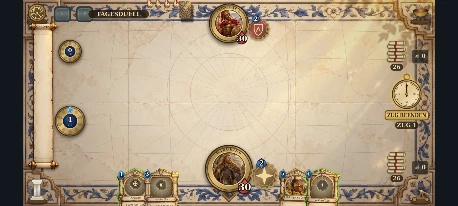
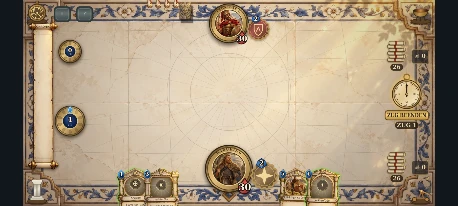
Aeterna 1.39.0 – Rückmeldung zu 1.38.0: Auftritt der Legendären neu, Modus ins Pausenfenster
- Auftritt der Legendären neu inszeniert (900 ms Match-Uhr): das Brett
  dunkelt ab, die Karte fliegt groß in die Mitte (die der KI dreht sich um),
  goldene Strahlen drehen sich hinter ihr, ein Samtband mit Name und Epoche
  entrollt sich darunter, ein Siegel prägt sich mit Klang, Stoß und Funken
  darauf; dann fällt die Karte von dort auf ihren Platz und schlägt mit
  goldenem Funkenkranz ein. Tippen überspringt, ruhige Bewegung zeigt Karte
  und Band still. Astra U13 um legendaer-strahlen ergänzt.
- Der Modus stand seit 1.38.0 groß und dauerhaft oben auf dem Brett – jetzt
  stehen Art der Partie und Stärke der KI im Pausenfenster (modeText).
- Tests (hud, kampagne, lehrstunden, raetsel), Referenzbilder der
  Match-Ansichten, Was ist neu, README.

Claude-Session: https://claude.ai/code/session_01SQ2igVxph85BdsjqxzB4JT

Changed region(s): [[0.1834, 0.0291, 0.3362, 0.1165], [0.3668, 0.0, 0.4279, 0.1165]]

diff --git a/quellcode/assets/game/view/match/fx.js b/quellcode/assets/game/view/match/fx.js
@@ -259,33 +259,55 @@ function finale(c,s,t,st){const e=st.held?FINALE.end:t-st.at,kind=st.info.winner
   const q=ease.outCubic(clamp((e-FINALE.banner)/FINALE.unroll)),drop=ease.outBack(clamp((e-FINALE.banner)/350));
   c.save();c.translate(800,mix(-60,250,drop));c.beginPath();c.rect(-240,-40,480,40+290*q);c.clip();R.blit(c,banner(kind));c.restore();}
  if(!st.held&&e>=FINALE.end){st.held=true;st.done?.();}}
-// AP 3.10 (seit 1.38.0): Auftritt einer Legendären. Vor dem Ausspielen fährt ein Band mit Name und Epoche quer über das Brett
-// (raw 0–0,3), ein goldenes Siegel prägt sich darauf (0,38–0,55, mit Klang und leichtem Wackeln), dann blendet alles aus (ab 0,82)
-// und die Karte fällt wie bisher mit schwerem Aufprall (AP 3.3). Unter ruhiger Bewegung steht nur das Band, ohne Fahrt und Siegel.
-// raw läuft über die Phase „herald“ der Zeitleiste (motion.js) – bei „Schnell“ doppelt so schnell, ein Tippen überspringt sie.
-// ASTRA: legendaer-band – Band aus dunklem Samt mit Goldborte und Lorbeerenden quer über das Brett, Mitte frei für Name und Epoche, 1280 × 160
+// AP 3.10 (seit 1.38.0, neu inszeniert in 1.39.0 nach Deiner Rückmeldung „noch nicht gut“): Auftritt einer Legendären. raw läuft
+// über die Phase „herald“ (motion.js, 900 ms Match-Uhr, bei „Schnell“ die Hälfte, ein Tippen überspringt sie):
+//   0–0,32   das Brett wird dunkel, die Karte fliegt aus der Hand (die der KI von ihren Befehlen, dabei dreht sie sich um) groß in
+//            die Mitte (CHM.SHOW), hinter ihr gehen goldene Strahlen auf und drehen sich langsam;
+//   0,22–0,5 unter der Karte entrollt sich von der Mitte aus ein Band aus Samt mit Name und „Legendär · Held · Epoche“;
+//   0,5–0,62 ein goldenes Siegel prägt sich auf das Band – Siegelklang, ein Funkenkranz, ein leichter Stoß;
+//   0,62–1   die Karte schwebt, Strahlen und Band blenden aus; dann fällt sie von dort mit schwerem Aufprall auf ihren Platz (AP 3.3).
+// Unter ruhiger Bewegung steht die Karte gleich in der Mitte, das Band liegt still, ohne Strahlen, Siegel und Funken.
+// ASTRA: legendaer-band – Band aus dunkelrotem Samt mit Goldborte und gegabelten Enden unter der Karte, Mitte frei für Name und Epoche, 680 × 110
 // ASTRA: legendaer-siegel – goldenes Wachssiegel mit Lorbeerkranz und Stern, das sich auf das Band prägt, 150 × 150
-const heraldBand=card=>R.sprite('herald:'+card.id,-660,-84,1320,168,g=>{const owner=D.owner(card),line=['Legendär',owner?.name,D.eraOf(card)].filter(Boolean).join(' · ');
- g.shadowColor='#000a';g.shadowBlur=18;g.shadowOffsetY=6;g.beginPath();g.moveTo(-640,-50);g.lineTo(600,-50);g.lineTo(640,0);g.lineTo(600,50);g.lineTo(-640,50);g.lineTo(-600,0);g.closePath();
- g.fillStyle=grad(g,0,-50,0,100,'#3a0f14','#1a070a');g.fill();g.shadowBlur=0;g.shadowOffsetY=0;
- for(const y of [-42,42]){g.beginPath();g.moveTo(-620,y);g.lineTo(612,y);g.strokeStyle='#e6c065';g.lineWidth=3;g.stroke();}
- g.font='bold 46px Title,serif';g.textAlign='center';g.textBaseline='middle';g.lineJoin='round';g.strokeStyle='#120406';g.lineWidth=6;g.strokeText(card.name,40,-10,900);g.fillStyle='#ffe6a6';g.fillText(card.name,40,-10,900);
- g.font='24px Body,serif';g.fillStyle='#e8d2a0';g.fillText(line,40,26,900);});
+// ASTRA: legendaer-strahlen – goldener Strahlenkranz hinter der großen Karte einer Legendären (wird gedreht), 840 × 840
+const heraldRibbon=card=>R.sprite('herald-band:'+card.id,-360,-62,720,124,g=>{const owner=D.owner(card),line=['Legendär',owner?.name,D.eraOf(card)].filter(Boolean).join(' · ');
+ g.shadowColor='#000b';g.shadowBlur=16;g.shadowOffsetY=6;
+ for(const sd of [-1,1]){g.beginPath();g.moveTo(sd*300,-30);g.lineTo(sd*350,-36);g.lineTo(sd*328,0);g.lineTo(sd*350,36);g.lineTo(sd*300,30);g.closePath();g.fillStyle='#4a1016';g.fill();}
+ g.beginPath();g.moveTo(-310,-44);g.quadraticCurveTo(0,-54,310,-44);g.lineTo(310,44);g.quadraticCurveTo(0,34,-310,44);g.closePath();g.fillStyle=grad(g,0,-50,0,100,'#7a1c24','#2a080c');g.fill();
+ g.shadowBlur=0;g.shadowOffsetY=0;g.lineWidth=3;g.strokeStyle='#e6c065';g.stroke();
+ g.beginPath();g.moveTo(-296,-36);g.quadraticCurveTo(0,-45,296,-36);g.moveTo(-296,36);g.quadraticCurveTo(0,27,296,36);g.lineWidth=1.2;g.strokeStyle='#e6c06588';g.stroke();
+ g.textAlign='center';g.textBaseline='middle';g.lineJoin='round';g.font='bold 36px Title,serif';g.strokeStyle='#160406';g.lineWidth=6;
+ g.strokeText(card.name,14,-10,540);g.fillStyle=grad(g,0,-30,0,40,'#fff3c4','#e8b450');g.fillText(card.name,14,-10,540);
+ g.font='22px Body,serif';g.fillStyle='#f0dcae';g.fillText(line,14,22,540);});
 const heraldSeal=()=>R.sprite('herald-seal',-80,-80,160,160,g=>{g.shadowColor='#0009';g.shadowBlur=12;g.shadowOffsetY=4;
  g.beginPath();for(let i=0;i<=40;i++){const an=i/40*TAU,rr=62+3*Math.sin(an*9);g.lineTo(Math.cos(an)*rr,Math.sin(an)*rr);}g.closePath();g.fillStyle=grad(g,-62,-62,124,124,'#8a5a12','#ffe08a');g.fill();
  g.shadowBlur=0;g.shadowOffsetY=0;g.strokeStyle='#5a3a0a';g.lineWidth=2;g.stroke();ellipse(g,0,0,46,46,null,'#7a4e10',3);
- for(let i=0;i<14;i++){const an=-Math.PI*.9+i/13*Math.PI*.8,side=[-1,1];for(const sd of side){g.save();g.rotate(sd*an);g.translate(0,-38);g.rotate(sd*.5);g.beginPath();g.ellipse(0,0,4,8,0,0,TAU);g.fillStyle='#6a420c';g.fill();g.restore();}}
+ for(let i=0;i<14;i++){const an=-Math.PI*.9+i/13*Math.PI*.8;for(const sd of [-1,1]){g.save();g.rotate(sd*an);g.translate(0,-38);g.rotate(sd*.5);g.beginPath();g.ellipse(0,0,4,8,0,0,TAU);g.fillStyle='#6a420c';g.fill();g.restore();}}
  sparkle(g,0,0,20,'#fff6d0');});
-F.herald=(c,x,raw)=>{const card=x.card,y=357,calm=still(),fade=raw<.82?1:clamp((1-raw)/.18);
- const slide=calm?1:ease.outCubic(clamp(raw/.3)),stamp=calm?0:clamp((raw-.38)/.17);
- if(!calm&&raw>=.02&&!x.horn){x.horn=true;CHA.play('horn',{gain:.42});}
- if(!calm&&stamp>=1&&!x.stamped){x.stamped=true;CHA.play('seal',{gain:.75});T.shake.add(.14);}
- c.save();c.globalAlpha=fade*.38*clamp(raw/.15);c.fillStyle='#0b0806';c.fillRect(-60,-60,1720,920);c.restore();
- c.save();c.globalAlpha=fade*(calm?clamp(raw/.15):1);R.blit(c,heraldBand(card),mix(-1100,800,slide),y);
- if(stamp>0){const k=mix(2.4,1,ease.inCubic(stamp));c.globalAlpha=fade*clamp(stamp*2);c.translate(800-520,y);c.scale(k,k);R.blit(c,heraldSeal());}
- c.restore();};
+const heraldRays=()=>R.sprite('herald-strahlen',-420,-420,840,840,g=>{const f=g.createRadialGradient(0,0,30,0,0,420);f.addColorStop(0,'#fff4c8ee');f.addColorStop(.3,'#ffd27a77');f.addColorStop(1,'#ffcf6a00');
+ g.fillStyle=f;for(let i=0;i<18;i++){const a=i/18*TAU;g.beginPath();g.moveTo(0,0);g.arc(0,0,420,a-.06,a+.06);g.closePath();g.fill();}
+ const h=g.createRadialGradient(0,0,0,0,0,260);h.addColorStop(0,'#ffe9a066');h.addColorStop(1,'#ffe9a000');g.fillStyle=h;g.beginPath();g.arc(0,0,260,0,TAU);g.fill();});
+F.herald=(c,x,raw,t)=>{const card=x.card,S=CHM.SHOW,calm=still(),mine=x.p===0,from=x.heraldFrom||S,out=raw<.62?0:clamp((raw-.62)/.38);
+ const fly=calm?1:ease.outCubic(clamp(raw/.32)),unroll=calm?1:ease.outCubic(clamp((raw-.22)/.28)),stamp=calm?0:clamp((raw-.5)/.12),turn=mine||calm?1:clamp(raw/.32);
+ if(!calm&&!x.horn){x.horn=true;CHA.play('horn',{gain:.42});}
+ if(!calm&&stamp>=1&&!x.stamped){x.stamped=true;x.stampAt=t;CHA.play('seal',{gain:.75});T.shake.add(.16);}
+ // Das Brett tritt zurück.
+ c.save();c.globalAlpha=.68*clamp(raw/.18)*(1-out);c.fillStyle='#0b0806';c.fillRect(-60,-60,1720,920);c.restore();
+ // Strahlen und Schein hinter der Karte.
+ const w=mix(from.w,S.w,fly),h=w*1.41,cx=mix(from.x,S.x,fly),cy=mix(from.y,S.y,fly)-Math.sin(fly*Math.PI)*46+(calm?0:Math.sin(raw*Math.PI*2)*3*fly);
+ if(!calm){c.save();c.globalAlpha=fly*(1-out)*.55;c.translate(cx,cy);c.rotate(t/2600);const k=.7+.3*fly;c.scale(k,k);R.blit(c,heraldRays());c.restore();}
+ c.save();c.globalAlpha=fly*(1-out*.6);c.translate(cx-w/2,cy-h/2);c.scale(w/200,h/282);R.blit(c,revealGlow());c.restore();
+ // Die Karte – die der KI dreht sich im Flug um.
+ CHM.floatCard(c,card.id,cx,cy,w,mix(from.angle||0,0,fly),1,{lift:fly,back:turn<.5,sx:mine||calm?null:Math.abs(Math.cos(turn*Math.PI)),gold:mine&&R.gilded(card.id)});
+ // Das Band entrollt sich von der Mitte aus unter der Karte.
+ const by=S.y+S.w*1.41/2+30;
+ if(unroll>0){c.save();c.globalAlpha=1-out;c.beginPath();c.rect(S.x-360*unroll,by-70,720*unroll,140);c.clip();R.blit(c,heraldRibbon(card),S.x,by);c.restore();}
+ // Das Siegel prägt sich links auf das Band, Funken fliegen.
+ if(stamp>0){const k=mix(2.6,.72,ease.inCubic(stamp));c.save();c.globalAlpha=clamp(stamp*2)*(1-out);c.translate(S.x-292,by);c.scale(k,k);R.blit(c,heraldSeal());c.restore();}
+ if(x.stampAt!=null){const e=(t-x.stampAt)/520;if(e<1)for(let i=0;i<18;i++){const an=i/18*TAU+.3,r=20+e*120*(.7+.3*Math.sin(i*7)),a=(1-e)*(1-out);
+  c.save();c.globalAlpha=a;sparkle(c,S.x-292+Math.cos(an)*r,by+Math.sin(an)*r*.7,6+4*(1-e),'#fff1c0');c.restore();}}};
 // Drawn last over the board (R.draw). A held close is dropped as soon as another game is shown.
-F.draw=(c,s,t)=>{const x=CHM.transition;if(x?.line&&!x.hit){const ph=x.line.at(t-x.at);if(ph.name==='herald')F.herald(c,x,ph.raw);}
+F.draw=(c,s,t)=>{const x=CHM.transition;if(x?.line&&!x.hit){const ph=x.line.at(t-x.at);if(ph.name==='herald')F.herald(c,x,ph.raw,t);}
  const st=F.stage;if(!st)return;if(st.kind==='finale'&&s.phase!=='over'){F.stage=null;return;}
  if(st.kind==='opening')opening(c,s,t,st);else finale(c,s,t,st);};
 })();

diff --git a/quellcode/assets/game/view/match/motion.js b/quellcode/assets/game/view/match/motion.js
@@ -10,11 +10,12 @@ const now=()=>T.clock.now();
 const PLAY=heavy=>timeline([{name:'lift',d:150,ease:'outCubic'},{name:'hover',d:heavy?270:140,ease:'inOutCubic'},{name:'slam',d:heavy?130:115,ease:'inCubic'},{name:'settle',d:heavy?380:300}]);
 const SPELL=timeline([{name:'lift',d:150,ease:'outCubic'},{name:'hover',d:110,ease:'inOutCubic'},{name:'cast',d:130,ease:'inQuad'},{name:'after',d:260}]);
 const ATTACK=timeline([{name:'windup',d:130,ease:'outCubic'},{name:'charge',d:105,ease:'inQuad'},{name:'contact',d:60},{name:'recoil',d:300,ease:'outBack'}]);
-// AP 3.10 (seit 1.38.0): Auftritt der Legendären – vor dem Ausspielen einer Legendären (auch der KI) hält das Spiel kurz an,
-// ein Band mit Name und Epoche fährt über das Brett und ein Siegel prägt sich darauf (fx.js, F.herald); dann landet die Karte wie
-// bisher. HERALD ms auf der Match-Uhr (bei „Schnell“ die Hälfte), ein Tippen überspringt es (M.skipHerald). Hinterhalte nicht –
-// sie bleiben verdeckt.
-const HERALD=700;
+// AP 3.10 (seit 1.38.0, neu inszeniert in 1.39.0 nach Deiner Rückmeldung): Auftritt der Legendären – vor dem Ausspielen einer
+// Legendären (auch der KI) fliegt die Karte groß in die Mitte des Brettes (M.SHOW), hinter ihr gehen goldene Strahlen auf, darunter
+// entrollt sich ein Band mit Name und Epoche, ein Siegel prägt sich mit Funken darauf (fx.js, F.herald); von dort schlägt die Karte
+// schwer auf ihrem Platz ein. HERALD ms auf der Match-Uhr (bei „Schnell“ die Hälfte), ein Tippen überspringt es (M.skipHerald).
+// Hinterhalte nicht – sie bleiben verdeckt.
+const HERALD=900;M.SHOW={x:800,y:340,w:212};
 M.legendary=card=>card?.rarity==='legendary'&&!card.ambush;
 const herald=line=>timeline([{name:'herald',d:HERALD},...line.phases.map(({name,d,ease})=>({name,d,ease}))]);
 M.lines={PLAY,SPELL,ATTACK,HERALD,herald};
@@ -33,8 +34,11 @@ M.begin=(before,after,action,origin,impact,done)=>{
  const duration=line?line.duration:type==='power'?570:660;
  // A Hinterhalt (AP 5.6) flies to its roll beside the hero – the rival's face down.
  const to=card?.ambush?L.ambush(p,Math.min(2,(before.players[p].ambush||[]).length)):card?.type==='minion'?M.position(after,after.events.find(e=>e.type==='summon'&&e.id===card.id)?.target):action.target?M.position(before,action.target):type==='power'?M.position(before,(after.events.find(e=>e.type==='damage'||e.type==='heal'||e.type==='summon')||after.events.find(e=>e.type==='power'))?.target||'h'+p):{x:800,y:350};
- const from=origin||(card&&p===1?M.orderPosition(Math.max(0,before.players[1].hand.findIndex(x=>x.uid===action.uid))):M.position(before,action.uid||'power'+p));
- M.transition={id:++M.serial,before,after,action,card,p,weight,line,from,to,origin,at,hitAt,duration,hit:false,impact,done};
+ const start=origin||(card&&p===1?M.orderPosition(Math.max(0,before.players[1].hand.findIndex(x=>x.uid===action.uid))):M.position(before,action.uid||'power'+p));
+ // Eine Legendäre startet nach ihrem Auftritt in der Mitte des Brettes; wo sie lag, merkt sich heraldFrom (dort beginnt ihr Flug).
+ const show=line!==base,from=show?{x:M.SHOW.x,y:M.SHOW.y}:start,lifted=show?{w:M.SHOW.w,angle:0}:origin;
+ M.transition={id:++M.serial,before,after,action,card,p,weight,line,from,to,origin:lifted,at,hitAt,duration,hit:false,impact,done,
+  heraldFrom:show?{x:start.x,y:start.y,w:origin?.w||(p===0?L.handWidth:46),angle:origin?.angle||-.06}:null};
  if(type==='attack')CHA.play('swing',{x:M.position(before,action.uid).x,gain:.62});
  if(type==='play')CHA.play('parchment',{x:from.x,gain:.55+.35*weight});
  if(type==='power')CHA.play('channel',{x:939,gain:.4});
@@ -51,7 +55,9 @@ M.cancel=(clearReturns=true)=>{if(M.transition&&!M.transition.hit){M.transition.
 function impact(x,t){const {action,card,weight,after,before}=x;
  if(card?.type==='minion'){T.clock.stop(40+40*weight);T.shake.add(.18+.5*weight,weight>=.7?.16:0);
   CHA.play('thud',{x:x.to.x,gain:.6+.4*weight});if(weight>=.7)CHA.play('slam',{x:x.to.x,gain:.7});
-  CHR.fx.push({type:'dust',x:x.to.x,y:x.to.y+58,weight,start:t,life:900});if(weight>=.3)CHR.fx.push({type:'cracks',x:x.to.x,y:x.to.y+40,weight,seed:x.id,start:t,life:1700});}
+  CHR.fx.push({type:'dust',x:x.to.x,y:x.to.y+58,weight,start:t,life:900});
+  // AP 3.10: eine Legendäre schlägt mit einem goldenen Funkenkranz ein.
+  if(M.legendary(card))CHR.fx.push({type:'burst',element:'gold',x:x.to.x,y:x.to.y,seed:x.id%97,start:t,life:1000,n:18,size:1.4});if(weight>=.3)CHR.fx.push({type:'cracks',x:x.to.x,y:x.to.y+40,weight,seed:x.id,start:t,life:1700});}
  if(action.type==='attack'){const n=Math.max(0,...after.events.filter(e=>e.type==='damage'&&e.target===action.target).map(e=>e.n));
   T.clock.stop(50+Math.min(30,n*6));T.shake.add(.3+Math.min(.35,n*.05));}
  // AP 3.6: a spell bursts in the colours of its element, a hero power in its own effect, where they land.
@@ -112,12 +118,12 @@ M.overlay=(c,s,t,gold)=>{
  const x=M.transition;
  if(x?.card&&!x.hit){const e=t-x.at,ph=x.line.at(e),from=x.from,to=x.to,mine=x.p===0,minion=x.card.type==='minion',heavy=x.weight>=.7,g=mine&&(gold||CHR.gilded(x.card.id)),hidden=!mine&&!!x.card.ambush;
   const startW=x.origin?.w||(mine?L.handWidth:46),liftW=heavy?226:210;
-  const lifted={x:mix(from.x,to.x,.25),y:mine?Math.min(from.y-110,to.y+60):Math.max(from.y+150,to.y-260)};
+  const lifted=x.heraldFrom?{x:mix(from.x,to.x,.3),y:from.y-40}:{x:mix(from.x,to.x,.25),y:mine?Math.min(from.y-110,to.y+60):Math.max(from.y+150,to.y-260)};
   const above={x:to.x,y:minion?to.y-(heavy?150:120):to.y-110};
   // AP 3.10: während des Bandes wartet die Karte, wo sie lag (die der KI verdeckt bei ihren Befehlen).
-  // Das Band selbst zeichnet fx.js zuletzt über allem (F.draw), auch über der Tafel „Dein Zug“.
-  if(ph.name==='herald')M.floatCard(c,x.card.id,from.x,from.y,startW,x.origin?.angle||-.06,1,{lift:0,back:!mine,gold:g});
-  else if(ph.name==='lift'){const q=ph.q,turn=mine?null:clamp(ph.raw*1.4);M.floatCard(c,x.card.id,mix(from.x,lifted.x,q),mix(from.y,lifted.y,q),mix(startW,liftW,q),mix(x.origin?.angle||-.06,0,q),1,
+  // Den Auftritt selbst – Karte, Strahlen, Band, Siegel – zeichnet fx.js zuletzt über allem (F.draw), auch über „Dein Zug“.
+  if(ph.name==='herald'){}
+  else if(ph.name==='lift'){const q=ph.q,turn=mine||x.heraldFrom?null:clamp(ph.raw*1.4);M.floatCard(c,x.card.id,mix(from.x,lifted.x,q),mix(from.y,lifted.y,q),mix(startW,liftW,q),mix(x.origin?.angle||-.06,0,q),1,
    {lift:q,back:hidden||turn!=null&&turn<.5,sx:turn==null||hidden?null:Math.abs(Math.cos(turn*Math.PI)),gold:g});}
   else if(ph.name==='hover'){const q=ph.q,bob=Math.sin(ph.raw*Math.PI*(heavy?2:1))*(heavy?7:4);M.floatCard(c,x.card.id,mix(lifted.x,above.x,q),mix(lifted.y,above.y,q)-bob,liftW,Math.sin(ph.raw*Math.PI)*.03,1,{lift:1,gold:g,back:hidden});}
   else if(minion)morph(c,x.card.id,above.x,mix(above.y,to.y,ph.q),ph.q,g);

diff --git a/werkzeuge/tests/hud.test.js b/werkzeuge/tests/hud.test.js
@@ -2,7 +2,7 @@
 // Browser (Klickpfad, matchmessung.js, Geräte-Matrix); hier stehen Geometrie, Regeln und was ohne Browser prüfbar ist.
 const test=require('node:test'),assert=require('node:assert/strict'),path=require('node:path'),fs=require('node:fs'),vm=require('node:vm');
 const game=path.join(__dirname,'../../quellcode/assets/game'),read=f=>fs.readFileSync(path.join(game,f),'utf8');
-const D=require(path.join(game,'model/data.js')),{impactHaptic}=require(path.join(game,'viewmodel/match.js')),T=require(path.join(game,'view/match/anim.js'));
+const D=require(path.join(game,'model/data.js')),{impactHaptic,modeText}=require(path.join(game,'viewmodel/match.js')),T=require(path.join(game,'view/match/anim.js'));
 const box={window:{}};vm.runInNewContext(read('view/match/layout.js'),box);const L=box.window.CHL;
 const render=read('view/match/render.js'),motion=read('view/match/motion.js'),fx=read('view/match/fx.js'),board=read('view/match/board.js');
 
@@ -24,8 +24,8 @@ test('AP 1.9 Handkarten (Entscheidung 23: zwei Fächerseiten): bei voller Hand w
 
 test('AP 1.9 Lesbarkeit: Brett-Schriften in Mindestgröße hell auf dunklem Band, ruhigeres Grün, kleineres Schildwall-Wappen',()=>{
  assert.match(render,/const MIN_TEXT=22;/);
- // Modus, Zug, ZUG BEENDEN, Deck, Erschöpfung, Friedhof und das Zugsiegel der Chronik-Leiste nutzen die Mindestgröße.
- for(const re of [/372,56,MIN_TEXT,'#f3dab0'/,/txt\(c,label,0,r\+27,MIN_TEXT/,/txt\(c,'ZUG '\+turn,0,r\+66,MIN_TEXT/,/txt\(c,pp\.deck\.length,1451,yy\+104,MIN_TEXT/,
+ // Zug, ZUG BEENDEN, Deck, Erschöpfung, Friedhof und das Zugsiegel der Chronik-Leiste nutzen die Mindestgröße.
+ for(const re of [/txt\(c,label,0,r\+27,MIN_TEXT/,/txt\(c,'ZUG '\+turn,0,r\+66,MIN_TEXT/,/txt\(c,pp\.deck\.length,1451,yy\+104,MIN_TEXT/,
   /txt\(c,'−'\+\(pp\.fatigue\+1\),1451,yy\+104,MIN_TEXT/,/txt\(c,'☠ '\+pp\.grave\.length,1542,yy\+61,MIN_TEXT/,/txt\(c,e\.turn,x,sy\+1,MIN_TEXT/])assert.match(render,re);
  for(const old of [/,368,55,13,/,/'ZUG '\+e\.turn,x,sy\+\.5,8\.5/,/'ZUG '\+turn,0,r\+56,14/,/pp\.deck\.length,1451,yy\+103,19/])assert.doesNotMatch(render,old);
  // Die Plakette der Chronometer-Taste passt in sein Sprite.
@@ -37,18 +37,32 @@ test('AP 1.9 Lesbarkeit: Brett-Schriften in Mindestgröße hell auf dunklem Band
  assert.match(render,/function tauntCrest\(c\)\{\n c\.save\(\);c\.translate\(0,-50\);c\.scale\(\.7,\.7\);/);
 });
 
-test('AP 3.10 Auftritt der Legendären: Band und Siegel vor dem Aufprall, ≤ 1 s, überspringbar, nicht für Hinterhalte',()=>{
- assert.match(motion,/const HERALD=700;/);assert.match(motion,/M\.legendary=card=>card\?\.rarity==='legendary'&&!card\.ambush;/);
+test('Rückmeldung zu 1.38.0: kein Modus mehr oben auf dem Brett – Art der Partie und Stärke der KI stehen im Pausenfenster',()=>{
+ assert.doesNotMatch(render,/'SCHLACHT'/);assert.doesNotMatch(render,/'KOLOSSEUM'/);assert.doesNotMatch(render,/round\(c,254,38,236,34/);
+ assert.equal(modeText({mode:'free'}),'Freies Duell · Stärke der KI: Feldherr');
+ assert.equal(modeText({mode:'free',level:'legende'}),'Freies Duell · Stärke der KI: Legende');
+ assert.match(modeText({mode:'campaign',mission:0}),/^Kampagne · Mission \d+ · Stärke der KI: /);
+ assert.equal(modeText({mode:'tutorial'}),'Lehrstunde');assert.equal(modeText({mode:'puzzle'}),'Kartenrätsel');assert.equal(modeText(null),'');
+ assert.match(read('viewmodel/match.js'),/title:'Die Partie ruht',close:false,text:\[modeText\(this\.game\),'Dein Spielstand ist gespeichert\.'\]/);
+});
+
+test('AP 3.10 Auftritt der Legendären (1.39.0 neu inszeniert): Karte groß in der Mitte, Strahlen, Band, Siegel, dann Aufprall – ≤ 1 s, überspringbar',()=>{
+ assert.match(motion,/const HERALD=900;M\.SHOW=\{x:800,y:340,w:212\};/);assert.match(motion,/M\.legendary=card=>card\?\.rarity==='legendary'&&!card\.ambush;/);
  assert.match(motion,/line=base&&M\.legendary\(card\)\?herald\(base\):base/);
  // Die Zeitleiste behält ihre Phasen und setzt das Band davor; auf „Schnell“ läuft die Match-Uhr doppelt (anim.js).
  const play=T.timeline([{name:'lift',d:150},{name:'hover',d:270},{name:'slam',d:130},{name:'settle',d:380}]);
- const withBand=T.timeline([{name:'herald',d:700},...play.phases.map(({name,d,ease})=>({name,d,ease}))]);
- assert.equal(withBand.duration,play.duration+700);assert.equal(withBand.start('lift'),700);assert.ok(700<=1000);
+ const withBand=T.timeline([{name:'herald',d:900},...play.phases.map(({name,d,ease})=>({name,d,ease}))]);
+ assert.equal(withBand.duration,play.duration+900);assert.equal(withBand.start('lift'),900);assert.ok(900<=1000);
+ // Nach dem Auftritt beginnt der Flug in der Mitte (dort steht die Karte), nicht mehr in der Hand.
+ assert.match(motion,/const show=line!==base,from=show\?\{x:M\.SHOW\.x,y:M\.SHOW\.y\}:start/);
+ assert.match(motion,/heraldFrom:show\?/);assert.match(motion,/turn=mine\|\|x\.heraldFrom\?null:/,'die KI-Karte dreht sich nicht zweimal um');
+ assert.match(motion,/if\(M\.legendary\(card\)\)CHR\.fx\.push\(\{type:'burst',element:'gold'/,'goldener Funkenkranz beim Einschlag');
  assert.match(motion,/M\.skipHerald=\(\)=>\{if\(!M\.inHerald\(\)\)return false;/);
  assert.match(board,/if\(M\.skipHerald\(\)\)return;if\(M\.busy\(\)\)return;/,'ein Tippen überspringt');
- assert.match(fx,/F\.draw=\(c,s,t\)=>\{const x=CHM\.transition;if\(x\?\.line&&!x\.hit\)\{const ph=x\.line\.at\(t-x\.at\);if\(ph\.name==='herald'\)F\.herald/,'zuletzt über allem');
- assert.match(fx,/calm=still\(\)/);assert.match(fx,/stamp=calm\?0:/,'ruhige Bewegung: nur das Band');
- for(const k of ['legendaer-band','legendaer-siegel'])assert.match(fx,new RegExp('ASTRA: '+k+' – '),k);
+ assert.match(fx,/F\.draw=\(c,s,t\)=>\{const x=CHM\.transition;if\(x\?\.line&&!x\.hit\)\{const ph=x\.line\.at\(t-x\.at\);if\(ph\.name==='herald'\)F\.herald\(c,x,ph\.raw,t\)/,'zuletzt über allem');
+ assert.match(fx,/calm=still\(\)/);assert.match(fx,/fly=calm\?1:/);assert.match(fx,/stamp=calm\?0:/,'ruhige Bewegung: Karte steht, Band liegt still, kein Siegel');
+ assert.match(fx,/CHM\.floatCard\(c,card\.id,cx,cy,w/,'die Karte selbst im Auftritt');
+ for(const k of ['legendaer-band','legendaer-siegel','legendaer-strahlen'])assert.match(fx,new RegExp('ASTRA: '+k+' – '),k);
  // Es gibt Legendäre, die so auftreten – und Hinterhalte, die verdeckt bleiben.
  assert.ok(D.cards.filter(c=>c.rarity==='legendary'&&!c.ambush).length>=22);
 });

diff --git a/quellcode/assets/game/viewmodel/match.js b/quellcode/assets/game/viewmodel/match.js
@@ -40,6 +40,11 @@ class Choice extends Dialog{
  close(){}
 }
 
+// Art der Partie und Stärke der KI (seit 1.39.0 nur noch im Pausenfenster – bis dahin stand sie dauerhaft oben auf dem Brett).
+const MODES={campaign:s=>'Kampagne · Mission '+(KA?KA.number(s.mission):s.mission+1),random:()=>'Kolosseum',draft:()=>'Kolosseum',daily:()=>'Tagesduell',puzzle:()=>'Kartenrätsel',tutorial:()=>'Lehrstunde'};
+function modeText(s){if(!s)return '';const m=(MODES[s.mode]||(()=>'Freies Duell'))(s);if(s.mode==='tutorial'||s.mode==='puzzle')return m;
+ const lv=E.LEVELS.find(l=>l.id===E.level(s.level));return m+(lv?' · Stärke der KI: '+lv.name:'');}
+
 // Vibration im Takt des Aufpralls (AP 4.5, seit 1.38.0): Die Hülle vibriert im Moment des Einschlags (Treffer-Stopp), nach Wucht:
 // schwer (2) bei Treffern am Helden, beim Auftritt einer Legendären und beim Tod großer Diener (Kosten ab 5), mittel (1) bei
 // Treffern an Dienern, eigenen Angriffen und schweren Karten (Kosten ab 6), leicht (0) beim übrigen eigenen Befehl. Im Zug des Gegners nur, wenn es
@@ -265,7 +270,7 @@ class Match extends Screen{
   if(s.mode==='campaign'){const done=p.campaign.length;bars.push({key:'campaign',label:'Kampagne',from:done-(r.first?1:0),to:done,goal:D.missions.length,note:r.first?'Mission erstmals vollendet':''});}
   return bars;}
  pause(){const z=RA.byId[this.game?.puzzle];if(z){this.riddlePause(z);return;}const l=TU.byId[this.game?.lesson?.id];if(l){this.lessonPause(l);return;}
-  this.ui.dialog('message',new Dialog(this.ctx,{title:'Die Partie ruht',close:false,text:'Dein Spielstand ist gespeichert.',wrap:true,
+  this.ui.dialog('message',new Dialog(this.ctx,{title:'Die Partie ruht',close:false,text:[modeText(this.game),'Dein Spielstand ist gespeichert.'],wrap:true,
   buttons:[{label:'Fortsetzen',style:'gold'},{label:'Einstellungen',run:()=>this.ctx.dialogs.settings()},{label:'Zum Hauptmenü',keep:true,run:()=>this.ui.go('menu')},{label:'Aufgeben',style:'danger',run:()=>this.confirmSurrender()}]}));}
  // Kartenrätsel (AP 6.4 Teil 2): Lage und Ziel, ein Tipp ohne die Lösung, neu auflegen oder zurück zur Kampagne.
  riddlePause(z){this.ui.dialog('message',new Dialog(this.ctx,{title:'Rätsel · '+z.title,close:false,text:[z.text,'Ziel: Gewinne in diesem Zug.'],wrap:true,
@@ -310,6 +315,6 @@ class Match extends Screen{
  back(){this.pause();}
 }
 
-const api={DIORAMAS,keywordsOf,impactHaptic,Match,Choice};
+const api={DIORAMAS,keywordsOf,impactHaptic,modeText,Match,Choice};
 if(node)module.exports=api;else root.AEVM=Object.assign(root.AEVM||{},api);
 })(typeof globalThis!=='undefined'?globalThis:this);

diff --git a/quellcode/assets/game/view/match/render.js b/quellcode/assets/game/view/match/render.js
@@ -796,8 +796,7 @@ function riddle(c,s){if(s.puzzle==null)return;const {x,y,w}=FUSE,z=window.AERA?.
  // The chronicle strip replaces the former CHRONIK button; AUSSPIELEN sits below your ether dial.
  if(!view.drag&&view.selected&&view.selected.type==='play'&&!E.targetKind(s,0,view.selected))button(c,'AUSSPIELEN',L.confirm.x,L.confirm.y,L.confirm.w,L.confirm.h,true,'confirm');
  button(c,'Ⅱ',124,27,60,56,false,'pause');button(c,'?',210,27,60,56,false,'help');
- // Modus und Stärke der KI (AP 1.9: Mindestgröße, hell auf dunklem Band statt 13 Einheiten auf dem Holz).
- round(c,254,38,236,34,17,'#1e150dcc','#c9a05288',1.5);txt(c,(s.mode==='campaign'?'MISSION '+(window.AEKA?AEKA.number(s.mission):s.mission+1):s.mode==='random'||s.mode==='draft'?'KOLOSSEUM':s.mode==='daily'?'TAGESDUELL':s.mode==='puzzle'?'RÄTSEL':s.mode==='tutorial'?'LEHRSTUNDE':'SCHLACHT')+(s.level&&s.mode!=='tutorial'?' · '+s.level.toUpperCase():''),372,56,MIN_TEXT,'#f3dab0','center',220);
+ // Seit 1.39.0 kein Modus mehr oben auf dem Brett (Rückmeldung zu 1.38.0) – Art der Partie und Stärke der KI stehen im Pausenfenster.
  CHM.overlay(c,s,t,gold);
  if(view.drag&&view.selected){const d=view.drag,needsArrow=view.selected.type==='attack'||(view.selected.type==='power'&&E.targetKind(s,0,view.selected))||(d.cardId&&E.targetKind(s,0,view.selected));
   if(d.target&&d.target!=='h0')pulse(c,d.target,t);

diff --git a/werkzeuge/tests/kampagne.test.js b/werkzeuge/tests/kampagne.test.js
@@ -97,7 +97,7 @@ test('Kampagnenkarte: Kapitel-Leiste, Routen je Kapitel, Szene vor der ersten Mi
 test('Ansichten: Platzhalter für Astra, Szene, Lunte im Match und im Ergebnis',()=>{
  const camp=read('view/campaign.js'),dlg=read('view/dialogs.js'),rnd=read('view/match/render.js');
  assert.match(camp,/\/\/ ASTRA: kapitelsiegel – /);for(const k of ['szene-buehne','sprechblase','chronist'])assert.match(dlg,new RegExp('// ASTRA: '+k+' – '),k);
- assert.match(rnd,/\/\/ ASTRA: lunte – /);assert.match(rnd,/fuse\(c,s,t\)/);assert.match(rnd,/AEKA\.number\(s\.mission\)/);
+ assert.match(rnd,/\/\/ ASTRA: lunte – /);assert.match(rnd,/fuse\(c,s,t\)/);assert.match(read('viewmodel/match.js'),/campaign:s=>'Kampagne · Mission '\+\(KA\?KA\.number\(s\.mission\)/,'Mission im Pausenfenster (seit 1.39.0 nicht mehr oben auf dem Brett)');
  assert.match(dlg,/D_\.scene=/);assert.match(dlg,/s\.burnt\?'Die Lunte ist abgebrannt/);
  const html=read('index.html');assert.ok(html.indexOf('model/campaign.js')<html.indexOf('model/profile.js'),'Kampagnen-Modell vor dem Spielstand');assert.match(html,/view\/css\/campaign\.css/);
 });

diff --git a/werkzeuge/tests/raetsel.test.js b/werkzeuge/tests/raetsel.test.js
@@ -108,7 +108,7 @@ test('Ansichten: Platzhalter für Astra, Tafel im Match, Lage und Ergebnis; Lade
  const camp=read('view/campaign.js'),dlg=read('view/dialogs.js'),rnd=read('view/match/render.js');
  assert.match(camp,/\/\/ ASTRA: raetsel-siegel – /);assert.match(camp,/cmd:'openRiddle'/);
  assert.match(dlg,/\/\/ ASTRA: raetsel-lage – /);assert.match(dlg,/D_\.riddle=/);assert.match(dlg,/'GELÖST':'UNGELÖST'/);
- assert.match(rnd,/\/\/ ASTRA: raetsel-tafel – /);assert.match(rnd,/riddle\(c,s\)/);assert.match(rnd,/'RÄTSEL'/);
+ assert.match(rnd,/\/\/ ASTRA: raetsel-tafel – /);assert.match(rnd,/riddle\(c,s\)/);assert.match(read('viewmodel/match.js'),/puzzle:\(\)=>'Kartenrätsel'/);
  const html=read('index.html');assert.ok(html.indexOf('model/campaign.js')<html.indexOf('model/puzzles.js')&&html.indexOf('model/puzzles.js')<html.indexOf('model/profile.js'));
  const order=fs.readFileSync(path.join(__dirname,'../../ungenutzte_assets/ASTRA_AUFTRAG_OBERFLAECHE.md'),'utf8');
  for(const k of ['raetsel-siegel','raetsel-lage','raetsel-tafel'])assert.ok(order.includes('| `'+k+'` |'),k);

diff --git a/werkzeuge/tests/lehrstunden.test.js b/werkzeuge/tests/lehrstunden.test.js
@@ -51,7 +51,7 @@ test('AP 5.8: Stärke in Einstellungen und Heldenwahl, gilt für Duell, Kampagne
  // Im gespeicherten Spiel bleibt die Stufe; eine unbekannte wird zum Feldherrn.
  const saved=JSON.parse(store.exportText());saved.game.level='zauberer';assert.equal(P.parse(JSON.stringify(saved)).game.level,'feldherr');
  assert.match(read('model/draft.js'),/level:p\.settings\?\.level/,'Kolosseum nach der Einstellung');
- assert.match(read('view/setup.js'),/data-change="chooseLevel"/);assert.match(read('view/match/render.js'),/s\.level&&s\.mode!=='tutorial'\?' · '\+s\.level\.toUpperCase\(\)/,'Stufe im Match oben links');
+ assert.match(read('view/setup.js'),/data-change="chooseLevel"/);assert.match(read('viewmodel/match.js'),/' · Stärke der KI: '\+lv\.name/,'Stufe im Pausenfenster (seit 1.39.0 nicht mehr oben links im Match)');
 });
 
 test('AP 6.5: drei Lehrstunden mit Ort, Zeit, Quelle, festen Karten und Schritten des Chronisten',()=>{

diff --git a/quellcode/assets/game/model/neu.js b/quellcode/assets/game/model/neu.js
@@ -3,7 +3,7 @@
  * als „notes“ in version.json (werkzeuge/update_info.js), und ältere Versionen zeigen sie im Hinweis „Neue Version“. */
 (function(root){'use strict';
 const api={
- version:'1.38.0',
- notes:'Legendäre treten mit Band und Siegel auf, das Handy vibriert im Takt jedes Aufpralls, und das Brett ist lesbarer: mehr von jeder Handkarte, größere Schrift für Zug, Deck und Friedhof, ein ruhigeres Grün und kleinere Schildwall-Wappen.'};
+ version:'1.39.0',
+ notes:'Legendäre treten jetzt groß auf: Die Karte fliegt in die Mitte, goldene Strahlen gehen auf, ein Band mit Name und Epoche entrollt sich, ein Siegel prägt sich darauf – dann schlägt sie mit Funken ein. Der Modus steht nicht mehr oben auf dem Brett, sondern im Pausenfenster.'};
 if(typeof module!=='undefined')module.exports=api;else root.AENEU=api;
 })(typeof globalThis!=='undefined'?globalThis:this);

diff --git a/quellcode/assets/game/app.js b/quellcode/assets/game/app.js
@@ -3,7 +3,7 @@
  * haptics. Game rules live in model/, screen logic in viewmodel/, markup in view/ (see core/mvvm.js).
  * window.App stays the facade for the native shell: back(), importText(), onPause(), onResume(), since 1.36.0 onUpdate(). */
 (function(){'use strict';
-const VERSION='1.38.0',D=CHD,R=CHR,A=CHA,H=CHH,S=CHS,V=AEV,VM=AEVM,{bind}=AEM,$=id=>document.getElementById(id);
+const VERSION='1.39.0',D=CHD,R=CHR,A=CHA,H=CHH,S=CHS,V=AEV,VM=AEVM,{bind}=AEM,$=id=>document.getElementById(id);
 const stage=$('stage'),canvas=$('board'),overlay=$('overlay');
 
 // ---------- Model ----------

diff --git a/README.md b/README.md
@@ -4,7 +4,10 @@
 22 Helden nach dem sächsischen Lehrplan Geschichte (Klasse 5–7), von der Fürstin von Vix bis Vauban, 22 Kampagnenmissionen.
 Das Projekt liegt in `ProjectPyTales/Aeterna_Hauptspiel` (vorher `ProjectPyTales/Aeterna_Copy`, ab 24. 10. 2026 eine Kopie von
 `thepytales/Aeterna` mit der ganzen Historie). **Das Spiel ist fertig gebaut – jetzt kommen die Bilder:** [`ungenutzte_assets/ASTRA_START.md`](ungenutzte_assets/ASTRA_START.md).
-Aktueller Stand im Code: **Version 1.38.0** (**Match-HUD, Auftritt der Legendären und Vibration im Takt** nach AP 1.9, AP 3.10
+Aktueller Stand im Code: **Version 1.39.0** (**Rückmeldung zu 1.38.0** – der Auftritt der Legendären ist neu inszeniert: die Karte
+fliegt groß in die Mitte, goldene Strahlen gehen auf, darunter entrollt sich ein Band mit Name und Epoche, ein Siegel prägt sich mit
+Funken darauf, dann schlägt sie mit goldenem Funkenkranz ein; der Modus steht nicht mehr dauerhaft oben auf dem Brett, sondern im
+Pausenfenster); davor 1.38.0 (**Match-HUD, Auftritt der Legendären und Vibration im Takt** nach AP 1.9, AP 3.10
 und AP 4.5 – bei voller Hand liegen die Karten weiter auseinander und etwas höher, Modus, Zug, Deck und Friedhof stehen in
 Mindestgröße hell auf dunklem Band, das Bereit-Grün ist wärmer und ruhiger, das Schildwall-Wappen kleiner; vor jeder Legendären
 fährt ein Band mit Name und Epoche über das Brett, ein Siegel prägt sich darauf; das Handy vibriert im Moment des Einschlags nach
@@ -1463,7 +1466,8 @@ Gesehen im Bild von `node werkzeuge/matchmessung.js` (Handyformat 915 × 412, 7 
 - [x] **Mindestgröße für Text auf dem Brett:** „SCHLACHT“, „ZUG 1“ und die Zahlen an Deck und Friedhof sind im Handyformat nur
   wenige Pixel hoch und blass. Mindestens 22 Einheiten (≈ 12,5 px bei 915 px Breite) und Kontrast nach `stil/STILBIBEL.md`;
   am besten mit einem Test, der die kleinste Schrift im Match-Renderer prüft (wie `lesbar_css.py` für die Menüs).
-  *1.38.0: `MIN_TEXT = 22` für Modus (auf dunklem Band), „ZUG BEENDEN“ und „ZUG n“ am Chronometer, Deck, Erschöpfung und Friedhof;
+  *1.38.0: `MIN_TEXT = 22` für „ZUG BEENDEN“ und „ZUG n“ am Chronometer, Deck, Erschöpfung und Friedhof (der Modus stand in 1.38.0
+  groß auf einem Band oben links – nach Deiner Rückmeldung steht er seit 1.39.0 nur noch im Pausenfenster, mit der Stärke der KI);
   in der Chronik-Leiste ein Siegel mit der Zahl des Zuges statt „ZUG n“ in 8,5 Einheiten. Test `tests/hud.test.js`. Klein bleiben
   die Ziffern auf dem Zifferblatt und „CHRONIK“ auf Astras Rolle (Schmuck, kein Lesetext).*
 - [x] **Schildwall-Wappen zurücknehmen:** Bei vollem Brett trägt fast jeder Diener oben ein Wappen – kleiner oder als Rand der
@@ -1889,6 +1893,11 @@ nichts Neues. Offen ist nur ein eigener Auftritt für Legendäre:
   *1.38.0: Phase „herald“ (700 ms auf der Match-Uhr) vor der Zeitleiste des Ausspielens (`view/match/motion.js`); Band mit Name,
   „Legendär · Held · Epoche“ und goldenem Siegel mit Horn und Siegelklang (`F.herald` in `fx.js`, zuletzt über allem gezeichnet);
   Tippen springt an sein Ende (`M.skipHerald`); Hinterhalte bleiben verdeckt. Astra-Paket U13 (`legendaer-band`, `legendaer-siegel`).*
+  *1.39.0 (Rückmeldung „noch nicht gut“): neu inszeniert, 900 ms – das Brett dunkelt ab, die Karte fliegt aus der Hand (die der KI
+  dreht sich dabei um) groß in die Mitte (`M.SHOW`), hinter ihr drehen sich goldene Strahlen, darunter entrollt sich von der Mitte
+  aus ein Band aus Samt mit Name und „Legendär · Held · Epoche“, ein Siegel prägt sich mit Siegelklang, Stoß und Funkenkranz darauf;
+  dann fällt die Karte von dort auf ihren Platz und schlägt mit goldenem Funkenkranz ein. Ruhige Bewegung: Karte und Band stehen
+  still. Neu im Astra-Paket U13: `legendaer-strahlen`.*
 
 ### Phase 4 – Klang, Stimmen und Haptik (M)
 
@@ -3006,7 +3015,7 @@ Diese Punkte solltest du vor dem jeweiligen Arbeitspaket entscheiden:
 | 29 ✓ | AP 6.5, AP 5.8 Schwierigkeitsgrade, Phase 7, AP A.3 vorbereiten | erledigt in 1.34.0 – Lehrstunden mit dem Chronisten, Lehrling/Feldherr/Legende, Einstellungen mit Textgröße, Farben, Bewegung und Grafik, Sicherungen, Fehlerprotokoll, Geräte-Matrix; Astra-Auftrag in 43 Paketen mit Startanleitung; AP 6.6 pausiert |
 | ab jetzt (Du) | AP A.3: Pakete K01–K32 und U01–U12 bestellen | `ungenutzte_assets/ASTRA_START.md` – je Paket eine Datei anhängen, Auftrag kopieren, Lieferung in `Lieferung_<Paket>/` |
 | 30+ | Einbau der Lieferungen, dazwischen AP L.6 Teil 2 (Chronikzeilen in Häppchen), Phase 4 (Klang, Stimmen – Entscheidung 7) | jede Lieferung eine kurze Sitzung; Chronikzeilen und Klang brauchen keine Bilder |
-| 30 ✓ | Automatische Updates, AP 2.7, AP 1.9, AP 3.10, AP 4.5 (Zusatz) | erledigt in 1.36.0 bis 1.38.0 – Updates wie in ADEU-Harness; Ruhetakt, Tisch als eigene Ebene, Auflösung passt sich an; lesbare Hand, Mindestschrift, ruhigeres Grün; Auftritt der Legendären; Vibration im Takt des Aufpralls |
+| 30 ✓ | Automatische Updates, AP 2.7, AP 1.9, AP 3.10, AP 4.5 (Zusatz), Rückmeldung 1.38.0 | erledigt in 1.36.0 bis 1.39.0 – Updates wie in ADEU-Harness; Ruhetakt, Tisch als eigene Ebene, Auflösung passt sich an; lesbare Hand, Mindestschrift, ruhigeres Grün; Auftritt der Legendären; Vibration im Takt des Aufpralls |
 | nach Phase 3/5 | AP 8.2, dann AP 8.1 | Crossplay, sobald Regeln und Balance stehen; die itch.io-Fassung erscheint erst mit Crossplay |
 
 Tipp: Eine Sitzung sollte mit einer grünen CI und einer installierbaren APK enden, auch wenn ein Paket noch nicht ganz fertig ist.
@@ -3015,12 +3024,14 @@ Tipp: Eine Sitzung sollte mit einer grünen CI und einer installierbaren APK end
 
 ## Vorschlag für die nächste Sitzung
 
-**Erledigt in Sitzung 30 (Versionen 1.36.0 bis 1.38.0, 9. 11. 2026):**
+**Erledigt in Sitzung 30 (Versionen 1.36.0 bis 1.39.0, 9. 11. 2026):**
 - **Automatische Updates** wie in ADEU-Harness (1.36.0, Dein Wunsch): `version.json` im Release „Test-APK“, Hinweis im Hauptmenü mit
   „Was ist neu“, Download mit SHA-256-Prüfung, Installer von Android, *Einstellungen → Daten → Updates* – siehe
   [Automatische Updates](#automatische-updates-seit-1360).
 - **AP 2.7 Bildrate und Wärme** (1.37.0): Ruhetakt (in Ruhe 30 Bilder je Sekunde), Tisch als eigene Ebene mit Wackeln als
   CSS-transform, Auflösung, die sich im Gefecht anpasst, keine Live-Schatten mehr, Menü-Funken ruhen unter Fenstern.
+- **Rückmeldung zu 1.38.0** (1.39.0): Auftritt der Legendären neu inszeniert (Karte groß in der Mitte, Strahlen, Band, Siegel,
+  Einschlag mit Funken); der Modus steht nicht mehr oben auf dem Brett, sondern im Pausenfenster.
 - **AP 1.9 Match-HUD, AP 3.10 Auftritt der Legendären, AP 4.5 Vibration im Takt des Aufpralls** (1.38.0, Dein Wunsch): lesbarere
   Hand bei voller Hand (Entscheidung 23 nach meinem Vorschlag: zwei Fächerseiten), Brett-Schriften in Mindestgröße, ruhigeres
   Grün, kleinere Schildwall-Wappen; Band und Siegel vor jeder Legendären; Vibration nach Wucht im Moment des Einschlags.
@@ -3029,8 +3040,9 @@ Tipp: Eine Sitzung sollte mit einer grünen CI und einer installierbaren APK end
 - Davor: Sitzungen 1–29 (1.4.0–1.35.0). Deine Rückmeldung zu 1.34.0 und 1.35.0 steht noch aus.
 
 **Vorher bitte von dir:**
-1. **`Aeterna-1.38.0-Test.apk` einmal von Hand installieren** (Release „Test-APK“ – es hält nur die neueste APK). Ab dann meldet sich
-   jede neue Version von selbst im Hauptmenü; beim ersten Update führt Android einmal zu „Apps aus dieser Quelle zulassen“.
+1. **Update auf 1.39.0 über den neuen Hinweis im Hauptmenü** – auf 1.38.0 meldet es sich von selbst („Neue Version verfügbar“).
+   Beim ersten Update führt Android einmal zu „Apps aus dieser Quelle zulassen“. Wer noch eine Version vor 1.36.0 hat, installiert
+   die APK aus dem Release „Test-APK“ einmal von Hand.
 2. **Kurz testen (15 Minuten):** ein Duell mit voller Hand – sind die Karten ohne Großansicht zu erkennen? Eine Legendäre ausspielen
    (Band, Siegel, Aufprall; Tippen überspringt). Spürst Du die Vibration im Takt der Treffer, zu stark oder zu schwach? Mit der
    Bildraten-Anzeige (fünfmal auf die Version in *Über das Spiel*): im Gefecht 120 fps, in Ruhe 30 mit „· Ruhe“. Dazu, falls noch
@@ -3043,7 +3055,7 @@ Tipp: Eine Sitzung sollte mit einer grünen CI und einer installierbaren APK end
 
 | Paket | Inhalt | Warum jetzt |
 |---|---|---|
-| Rückmeldung 1.34.0–1.38.0 | Lehrstunden, Schwierigkeitsgrade, Sammlung, Updates, Bildrate, Hand, Legendäre, Vibration nach Deinem Test | kleine Nacharbeit |
+| Rückmeldung 1.34.0–1.39.0 | Lehrstunden, Schwierigkeitsgrade, Sammlung, Updates, Bildrate, Hand, Legendäre, Vibration nach Deinem Test | kleine Nacharbeit |
 | AP A.3 Einbau | alle bis dahin gelieferten Ordner `Lieferung_K…` und `Lieferung_U…` | sichtbarster Fortschritt |
 | Falls keine Lieferung da ist | AP L.6 Teil 2: „Aus der Chronik“ für die nächsten rund 80 Karten (Basis- und Startdeckkarten zuerst) | braucht keine Bilder, stärkt den Lernteil |
 | Optional | AP 1.9 Rest: Chronik-Leiste startet eingeklappt und fährt mit dem ersten Eintrag heraus | klein |
@@ -3052,7 +3064,7 @@ Risiko: niedrig – Kartenbilder baut das Werkzeug ein; Chronikzeilen ändern ke
 
 **Text zum Kopieren für den Start:**
 
-> Lies die `README.md` im Repo `ProjectPyTales/Aeterna_Hauptspiel`. Übernimm mein Feedback zu den Versionen 1.34.0 bis 1.38.0:
+> Lies die `README.md` im Repo `ProjectPyTales/Aeterna_Hauptspiel`. Übernimm mein Feedback zu den Versionen 1.34.0 bis 1.39.0:
 > *(hier Feedback einfügen, auch zu Updates, Bildrate, Hand, Legendären und Vibration)*. Entscheidung 23: *(zwei Fächerseiten bleiben /
 > ein Fächer)*. Baue dann die Astra-Lieferungen *(falls vorhanden, z. B. K01, U01)* ein, sonst AP L.6 Teil 2. Halte dich an die
 > „Regeln für jede Sitzung“ (neue Version mit `model/neu.js`), lass Tests, Klickpfad und Geräte-Matrix laufen, hake erledigte Punkte

diff --git a/ungenutzte_assets/MOTIVE.md b/ungenutzte_assets/MOTIVE.md
@@ -3,7 +3,7 @@
 *Automatisch erzeugt von `node werkzeuge/motive.js` – nicht von Hand ändern.* Bis ein Motiv da ist, zeichnet das Spiel
 einen gestalteten Platzhalter (Epochenfarbe, Symbol, „Motiv folgt“; AP 5.12).
 
-**Stand:** 235 Karten ohne Motiv, 0 Helden ohne Porträt, 0 Schlachtfelder ohne Bild, 80 im Code gezeichnete Grafiken.
+**Stand:** 235 Karten ohne Motiv, 0 Helden ohne Porträt, 0 Schlachtfelder ohne Bild, 81 im Code gezeichnete Grafiken.
 Die Karten der elf Lehrplan-Helden tragen seit 1.15.0 (AP L.2) Namen und Bildideen aus deren Lebenswelt.
 
 **Für Astra gilt seit 1.21.0 (AP A.1) `ungenutzte_assets/ASTRA_AUFTRAG.md`:** Dort stehen alle Karten, die noch kein
@@ -298,8 +298,9 @@ spätere Sitzung baut sie ein. Größen mit „9-Slice“ sind dehnbare Rahmen (
 | `kolosseum-sand` | Arenaboden mit Sand und Spuren hinter dem Lauf | 700 × 620 | `quellcode/assets/game/view/draft.js` | Game UI asset for a mobile card game, hand-painted in the Aeterna style matching the concept art: warm limestone, polished dark wood, bronze, gold leaf and lapis accents, light from the upper left, soft ambient shadows, transparent background, no text. Arenaboden mit Sand und Spuren hinter dem Lauf. |
 | `kolosseum-schild` | Rundschild je Niederlage, heil als Umriss, verloren gebrochen | 96 × 96 | `quellcode/assets/game/view/draft.js` | Game UI asset for a mobile card game, hand-painted in the Aeterna style matching the concept art: warm limestone, polished dark wood, bronze, gold leaf and lapis accents, light from the upper left, soft ambient shadows, transparent background, no text. Rundschild je Niederlage, heil als Umriss, verloren gebrochen. |
 | `lebensherz` | Herz für die Lebenspunkte | 96 × 96 | `quellcode/assets/game/view/match/render.js` | Game UI asset for a mobile card game, hand-painted in the Aeterna style matching the concept art: warm limestone, polished dark wood, bronze, gold leaf and lapis accents, light from the upper left, soft ambient shadows, transparent background, no text. Herz für die Lebenspunkte. |
-| `legendaer-band` | Band aus dunklem Samt mit Goldborte und Lorbeerenden quer über das Brett, Mitte frei für Name und Epoche | 1280 × 160 | `quellcode/assets/game/view/match/fx.js` | Game UI asset for a mobile card game, hand-painted in the Aeterna style matching the concept art: warm limestone, polished dark wood, bronze, gold leaf and lapis accents, light from the upper left, soft ambient shadows, transparent background, no text. Band aus dunklem Samt mit Goldborte und Lorbeerenden quer über das Brett, Mitte frei für Name und Epoche. |
+| `legendaer-band` | Band aus dunkelrotem Samt mit Goldborte und gegabelten Enden unter der Karte, Mitte frei für Name und Epoche | 680 × 110 | `quellcode/assets/game/view/match/fx.js` | Game UI asset for a mobile card game, hand-painted in the Aeterna style matching the concept art: warm limestone, polished dark wood, bronze, gold leaf and lapis accents, light from the upper left, soft ambient shadows, transparent background, no text. Band aus dunkelrotem Samt mit Goldborte und gegabelten Enden unter der Karte, Mitte frei für Name und Epoche. |
 | `legendaer-siegel` | goldenes Wachssiegel mit Lorbeerkranz und Stern, das sich auf das Band prägt | 150 × 150 | `quellcode/assets/game/view/match/fx.js` | Game UI asset for a mobile card game, hand-painted in the Aeterna style matching the concept art: warm limestone, polished dark wood, bronze, gold leaf and lapis accents, light from the upper left, soft ambient shadows, transparent background, no text. goldenes Wachssiegel mit Lorbeerkranz und Stern, das sich auf das Band prägt. |
+| `legendaer-strahlen` | goldener Strahlenkranz hinter der großen Karte einer Legendären (wird gedreht) | 840 × 840 | `quellcode/assets/game/view/match/fx.js` | Game UI asset for a mobile card game, hand-painted in the Aeterna style matching the concept art: warm limestone, polished dark wood, bronze, gold leaf and lapis accents, light from the upper left, soft ambient shadows, transparent background, no text. goldener Strahlenkranz hinter der großen Karte einer Legendären (wird gedreht). |
 | `lehrstunde-chronist` | Tafel des Chronisten mit Federkiel-Medaillon und Pergamentfeld oben rechts im Match | 520 × 120 | `quellcode/assets/game/view/match/render.js` | Game UI asset for a mobile card game, hand-painted in the Aeterna style matching the concept art: warm limestone, polished dark wood, bronze, gold leaf and lapis accents, light from the upper left, soft ambient shadows, transparent background, no text. Tafel des Chronisten mit Federkiel-Medaillon und Pergamentfeld oben rechts im Match. |
 | `lehrstunde-siegel` | Wachssiegel mit Feder und Zahl (1–3) für die Lehrstunden | 160 × 160 | `quellcode/assets/game/view/dialogs.js` | Game UI asset for a mobile card game, hand-painted in the Aeterna style matching the concept art: warm limestone, polished dark wood, bronze, gold leaf and lapis accents, light from the upper left, soft ambient shadows, transparent background, no text. Wachssiegel mit Feder und Zahl (1–3) für die Lehrstunden. |
 | `lorbeerkranz` | goldener Lorbeerkranz über dem Giebel legendärer Karten | 900 × 500 | `quellcode/assets/game/view/match/render.js` | Game UI asset for a mobile card game, hand-painted in the Aeterna style matching the concept art: warm limestone, polished dark wood, bronze, gold leaf and lapis accents, light from the upper left, soft ambient shadows, transparent background, no text. goldener Lorbeerkranz über dem Giebel legendärer Karten. |
